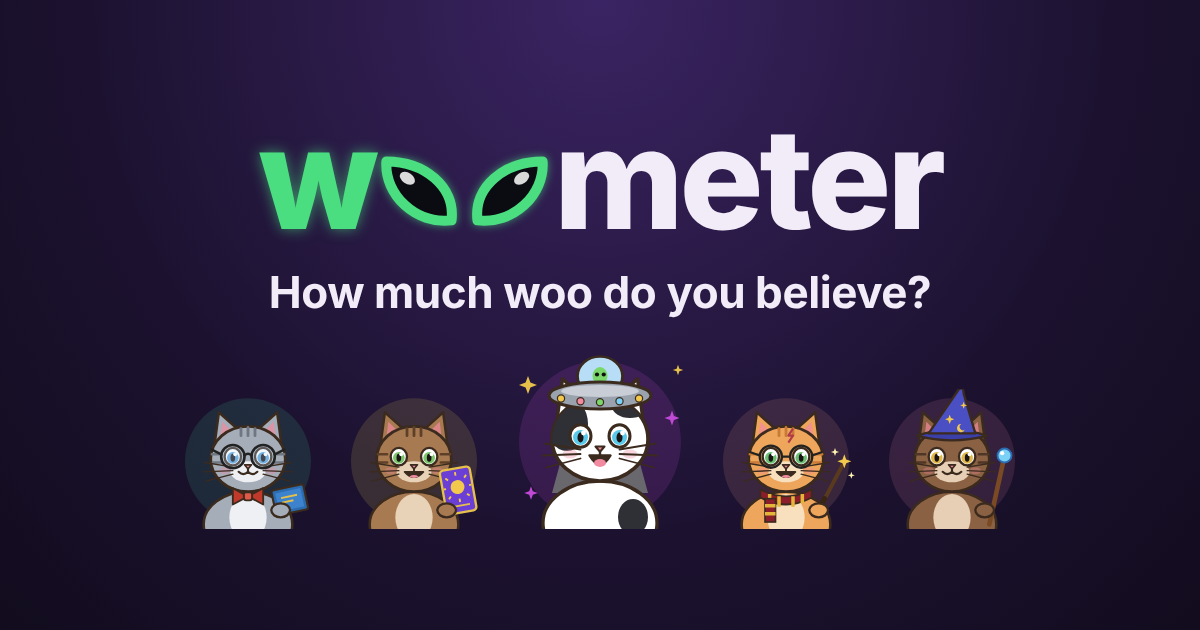
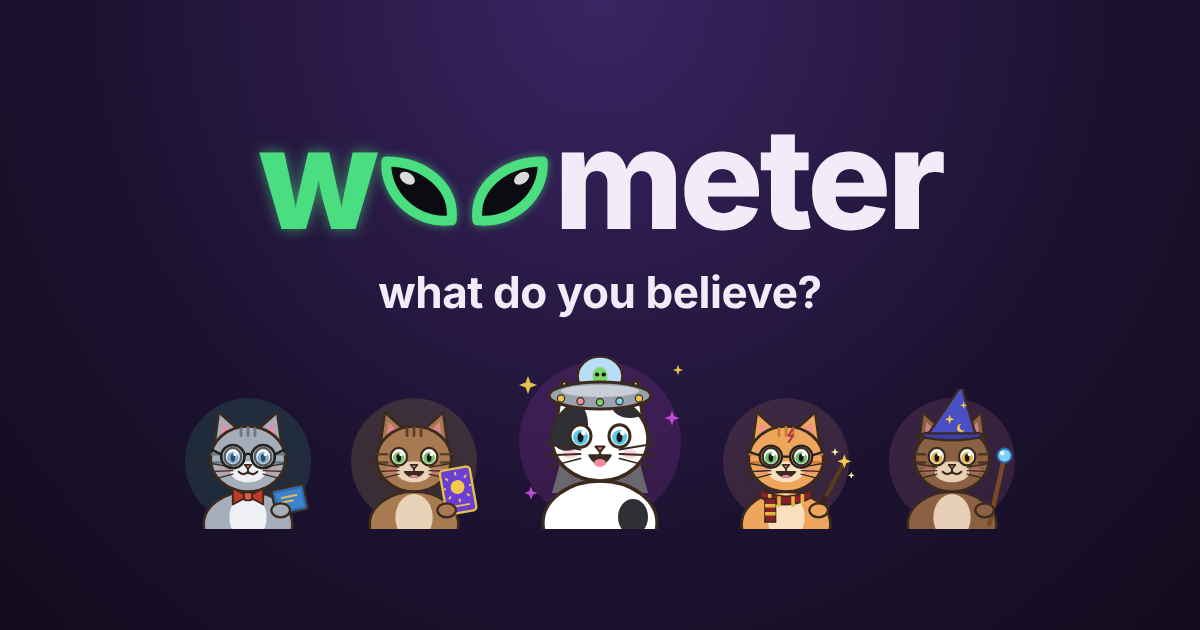
Tab title, link previews and share text say "what do you believe?"
Matches the new header tagline. The preview image is re-rendered and its
URL gets ?v=2 so chat apps fetch the new one instead of a cached copy.

Claude-Session: https://claude.ai/code/session_01L1ZHhtuRfPV3M6M1joCa3Y

Changed region(s): [[0.2158, 0.4222, 0.7708, 0.5127]]

diff --git a/index.html b/index.html
@@ -3,23 +3,23 @@
 <head>
   <meta charset="utf-8">
   <meta name="viewport" content="width=device-width, initial-scale=1">
-  <title>woometer: how much woo do you believe?</title>
+  <title>woometer: what do you believe?</title>
   <meta name="description" content="Answer Yes or No to the best-known pseudoscience, paranormal and religious claims, and see how much of it you reject.">
   <link rel="canonical" href="https://woometer.com/">
   <!-- Link previews in chats and social posts. Image source: tools/og-image.html -->
   <meta property="og:type" content="website">
   <meta property="og:site_name" content="woometer">
   <meta property="og:url" content="https://woometer.com/">
-  <meta property="og:title" content="woometer: how much woo do you believe?">
+  <meta property="og:title" content="woometer: what do you believe?">
   <meta property="og:description" content="Answer Yes or No to hundreds of pseudoscience, paranormal and religious claims, get your woo score and cat, and compare with friends.">
-  <meta property="og:image" content="https://woometer.com/icons/og-image.png">
+  <meta property="og:image" content="https://woometer.com/icons/og-image.png?v=2">
   <meta property="og:image:width" content="1200">
   <meta property="og:image:height" content="630">
   <meta property="og:image:alt" content="The woometer logo above five cartoon cats, from a skeptic professor to a UFO pilot.">
   <meta name="twitter:card" content="summary_large_image">
-  <meta name="twitter:title" content="woometer: how much woo do you believe?">
+  <meta name="twitter:title" content="woometer: what do you believe?">
   <meta name="twitter:description" content="Answer Yes or No to hundreds of pseudoscience, paranormal and religious claims, get your woo score and cat, and compare with friends.">
-  <meta name="twitter:image" content="https://woometer.com/icons/og-image.png">
+  <meta name="twitter:image" content="https://woometer.com/icons/og-image.png?v=2">
   <link rel="icon" type="image/svg+xml" href="icons/favicon.svg">
   <link rel="icon" type="image/png" sizes="32x32" href="icons/favicon-32.png">
   <link rel="icon" type="image/png" sizes="192x192" href="icons/icon-192.png">

diff --git a/app.js b/app.js
@@ -504,8 +504,8 @@
     const personal = window.Woometer.shareUrl && window.Woometer.shareUrl();
     const link = personal || location.origin + location.pathname;
     const text = s.answered
-      ? `I'm ${s.pct}% woo on the woometer: I reject ${100 - s.pct}% of the ${s.answered} claims I've answered. ${personal ? "See my results and compare with yours:" : "How much woo do you believe?"} ${link}`
-      : `How much woo do you believe? ${link}`;
+      ? `I'm ${s.pct}% woo on the woometer: I reject ${100 - s.pct}% of the ${s.answered} claims I've answered. ${personal ? "See my results and compare with yours:" : "What do you believe?"} ${link}`
+      : `What do you believe? ${link}`;
     try {
       await navigator.clipboard.writeText(text);
       toast("Score copied. Paste it anywhere.");

diff --git a/tools/og-image.html b/tools/og-image.html
@@ -27,7 +27,7 @@
   <div class="brand">
     <h1 class="logo"><span class="logo-woo">w<svg class="eye eye-l" viewBox="0 0 20 20"><path d="M2.5 16.5C1.5 8.5 9 2.5 18 2.5 18.5 10.5 11 17.5 2.5 16.5z"/><ellipse class="glint" cx="13" cy="6.5" rx="2" ry="1.3" transform="rotate(-35 13 6.5)"/></svg><svg class="eye eye-r" viewBox="0 0 20 20"><path d="M2.5 16.5C1.5 8.5 9 2.5 18 2.5 18.5 10.5 11 17.5 2.5 16.5z"/><ellipse class="glint" cx="13" cy="6.5" rx="2" ry="1.3" transform="rotate(-35 13 6.5)"/></svg></span><span class="logo-meter">meter</span></h1>
   </div>
-  <p class="q">How much woo do you believe?</p>
+  <p class="q">what do you believe?</p>
   <div class="cats" id="cats"></div>
   <script src="../cat.js"></script>
   <script>
